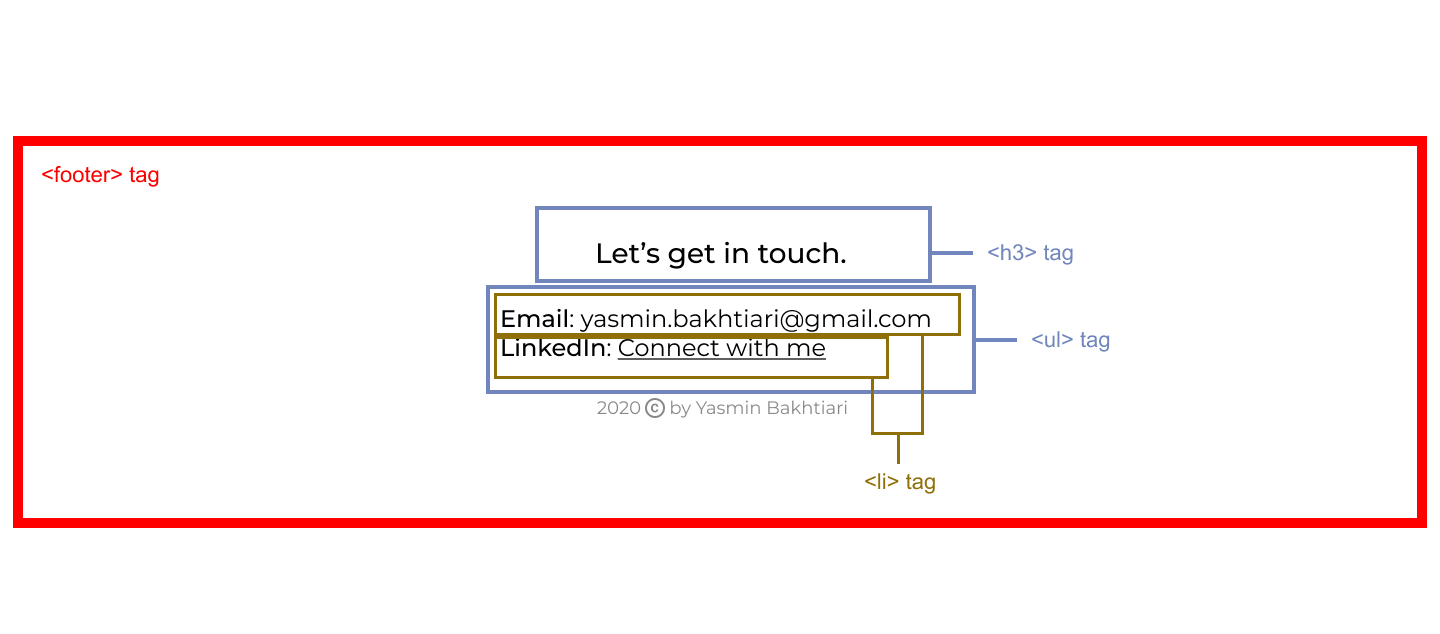
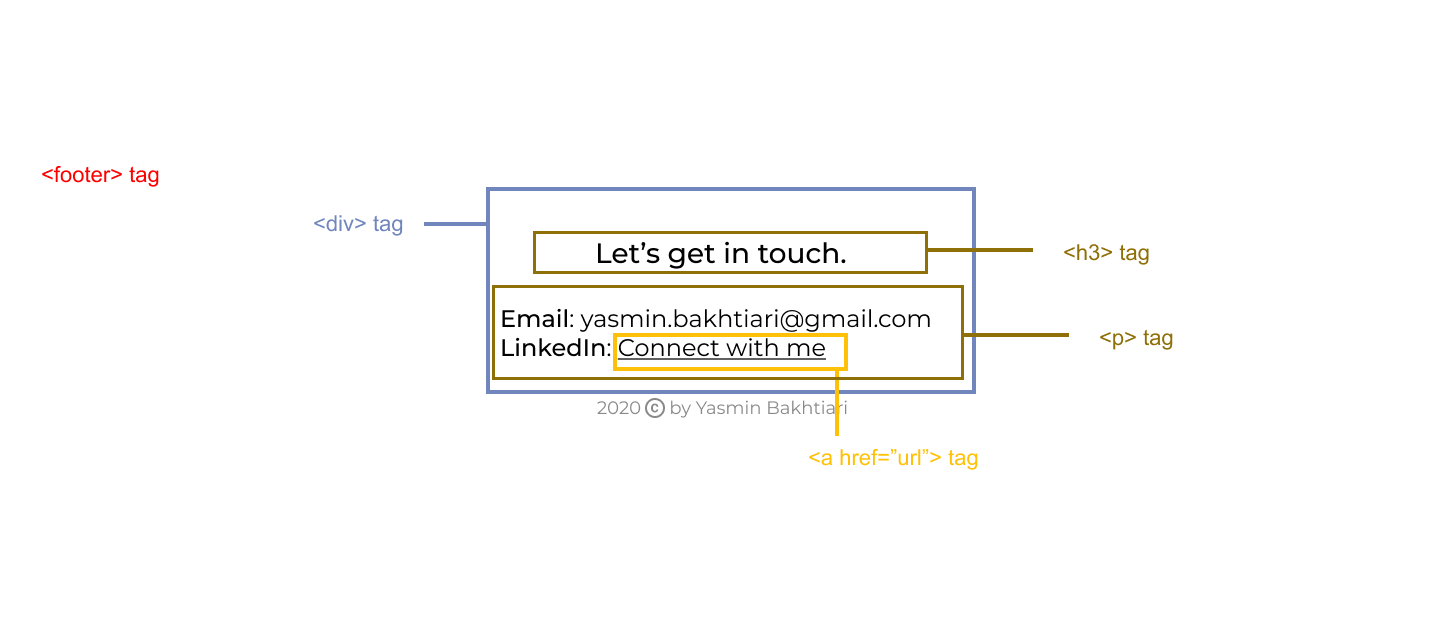
HW 17

diff --git a/css/styles.css b/css/styles.css
@@ -1,0 +1,118 @@
+body {
+    margin: 0;
+    padding: 0;
+  }
+
+  .logo {
+    float: left;
+  }
+
+
+  #navigation-container {
+    width: 80%;
+    margin: 0 auto;
+    height: 100px;
+    
+  }
+
+  .navigation-bar {
+    height: 70px;
+    width: 100%;
+    text-align:center;
+    vertical-align: top;
+    display: inline-block;
+  }
+  .navigation-bar img{
+  float:left;
+  }
+
+  .navigation-bar ul {
+    padding: 0px;
+    margin-left: 30%;
+    text-align: center;
+    display:inline-block;
+    vertical-align:top;
+  }
+
+  .navigation-bar li {
+    list-style-type: none;
+    padding: 0px;
+    height: 24px;
+    margin-top: 4px;
+    margin-bottom: 4px;
+    display: inline-flex;
+    
+  }
+
+  .navigation-bar li a {
+    color: #002A00;
+    font-size: 16px;
+    font-family: "Trebuchet MS", Arial, Helvetica, sans-serif;
+    text-decoration: none;
+    line-height: 70px;
+    padding: 5px 15px;
+    opacity: 0.9;
+  }
+
+  #menu {
+    float: right;
+  }
+  h1 {
+      color: #002A00;
+      font-family: Arial, Helvetica, sans-serif;
+      font-size: 48px;
+      font-weight: bold;
+      margin-top: 0px;
+      margin-bottom: 45px;
+  }
+
+  .content {
+      font-family: Arial, Helvetica, sans-serif;
+      font-size:18px;
+      background-color: white;
+      text-align: left;
+      width: 56%;
+      padding-top: 150px;
+      float: right;
+      vertical-align: top;
+      line-height: 35px;
+  }
+
+  
+  p.one{
+      font-size: 25px;
+      color: #002A00;
+  }
+
+  p.two{
+      font-size: 20px;
+      color: #002A00;
+      opacity: 0.9;
+    
+  }
+  .heroImg{
+      height: 600px; 
+      padding: 25px;
+  }
+  #image{
+      height: 90%; 
+      margin: 5% 0% 0% 9%;
+  }
+  footer {
+      margin-top:100px;
+      font-family: Arial, Helvetica, sans-serif;
+      text-align: center;
+      padding: 3px;
+      background-color: whitesmoke;
+      color: black;
+      display: inline-block;
+      width: 100%;
+
+  }
+
+  .footerContent {
+      padding: 1%;
+      display: inline-block;
+      vertical-align: top;
+      text-align: center;
+  }

diff --git a/index.html b/index.html
@@ -1,0 +1,47 @@
+<!DOCTYPE html>
+<html lang="en">
+<head>
+    <meta charset="UTF-8">
+    <meta name="viewport" content="width=device-width, initial-scale=1.0">
+    <title>UX UI HW 17</title>
+    <link rel="stylesheet" href="/Users/yasminbakhtiari/Documents/MyCode/UX_UI_HW_17/UX_UI_HW_17/css/styles.css">
+</head>
+    <body>
+
+        <div class="navigation-bar">
+    
+    
+        <div id="navigation-container">
+    
+          <img src="/Users/yasminbakhtiari/Documents/MyCode/UX_UI_HW_17/UX_UI_HW_17/images/YB Logo .png">
+    
+          <ul>
+            <li><a href="#">Work</a></li>
+            <li><a href="#">About Me</a></li>
+            <li><a href="#">Resume</a></li>
+            <li><a href="#">Contact</a></li>
+          </ul>
+        </div>
+
+        <section class="heroImg">
+            <img id="image" src="/Users/yasminbakhtiari/Documents/MyCode/UX_UI_HW_17/UX_UI_HW_17/images/Yasmin Home Photo 1.png">
+             <div class="content">
+    
+                 <h1>Hi, I’m Yasmin.</h1>
+    
+                 <p class="one">I am a user <strong>experience designer</strong>, <br>passionate about using design to<br> turn <strong>complex problems</strong> into<br><strong>seamless strategy-based solutions.</strong> </p>
+                 <p class="two">I love a good challenge and I’m always<br> looking to learn and improve my skills. </p>
+                 <a href="url">Check out my resume!</a>
+             </div>
+         </section>
+    
+         <footer>
+             <div class="footerContent">
+                <h3>Let’s get in touch.</h3> 
+                <p> <strong>Email: </strong><a href="yasmin.bakhtiari@gmail.com">yasmin.bakhtiari@gmail.com</a></p>
+                <p><strong>LinkedIn: </strong><a href="url">Connect with me!</a></p>
+            </div>
+         </footer>
+        
+    </body>
+    </html>
